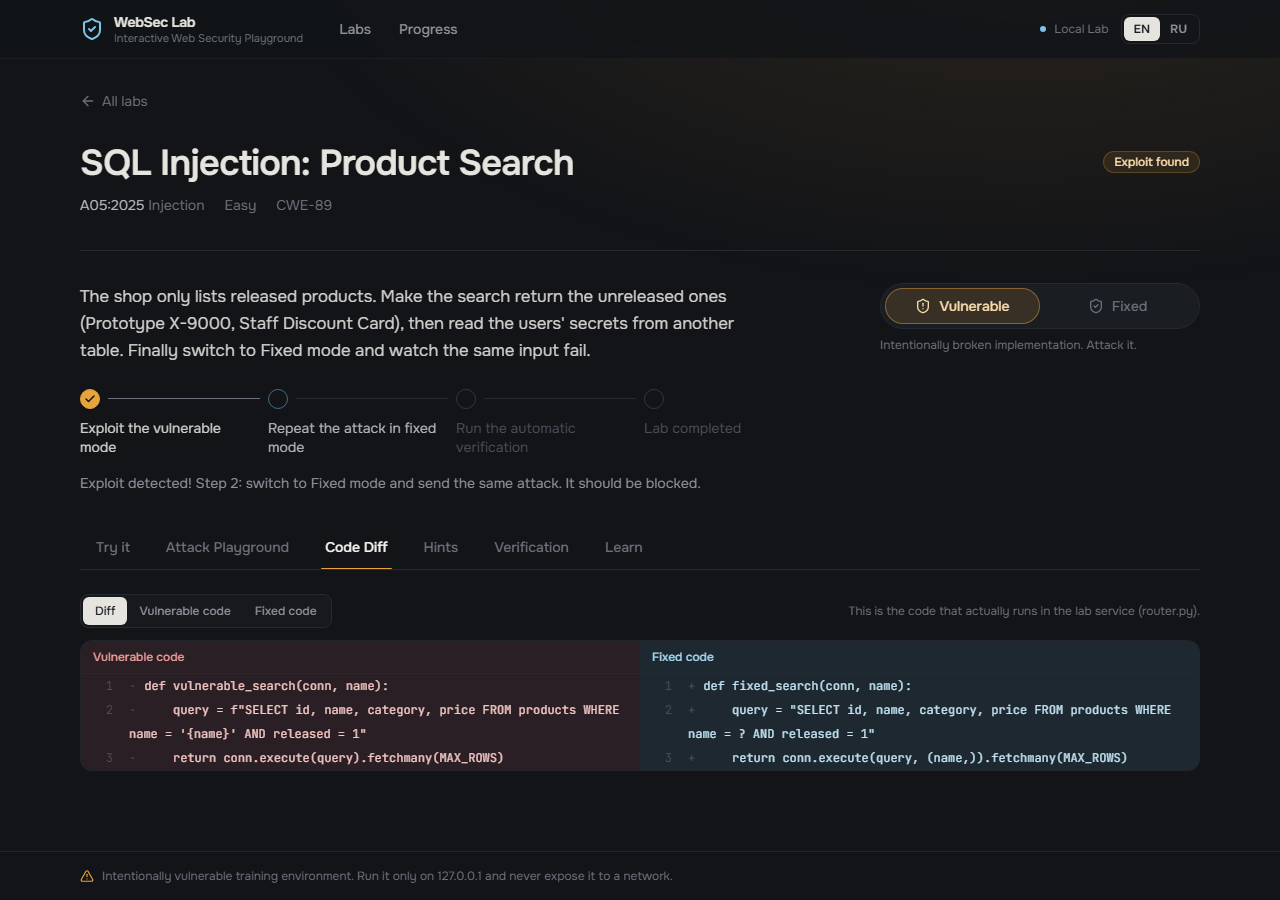
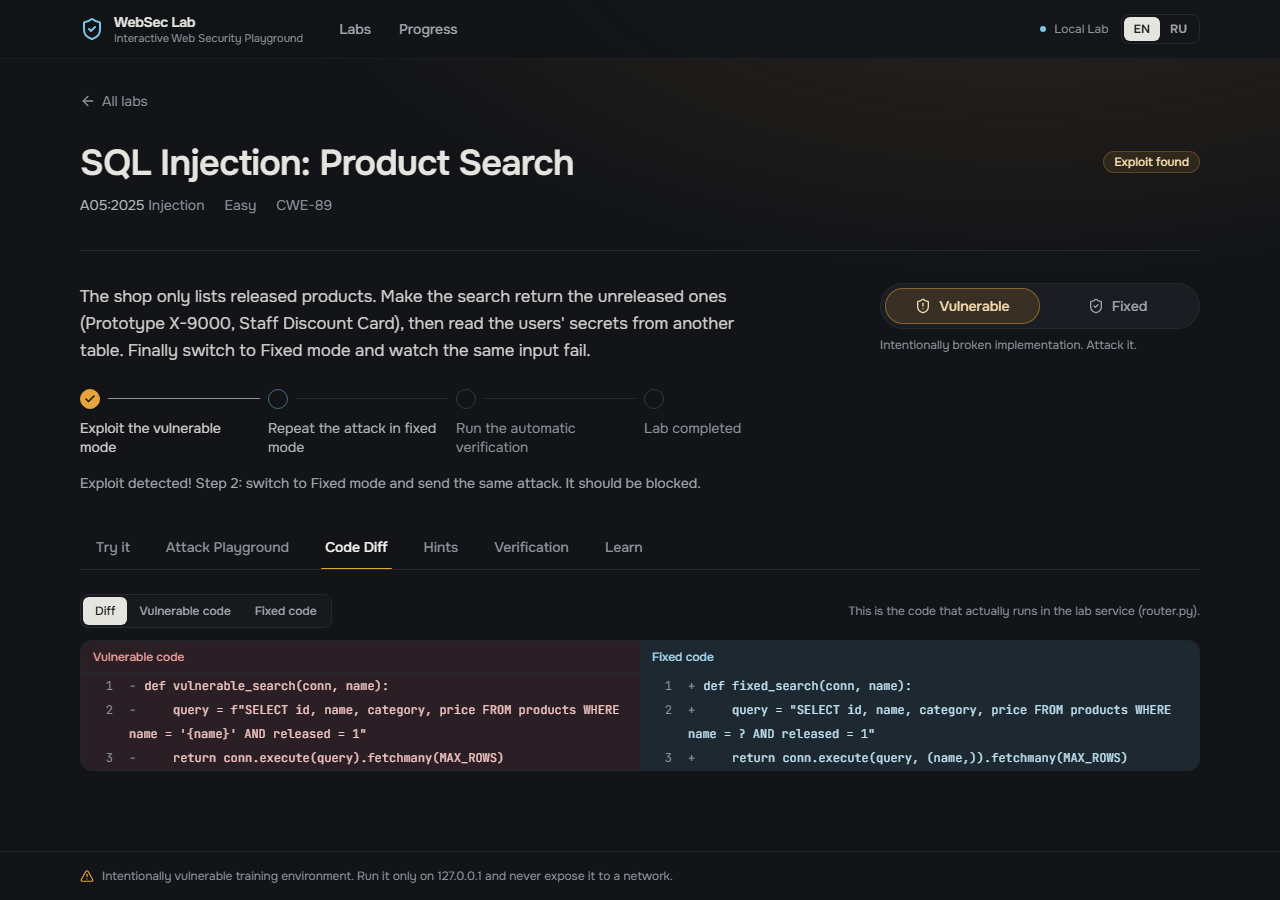
README: demo GIF, badges, current test and lint commands (v1.2.1)
A short GIF shows the core loop: exploit the vulnerable mode, switch modes, watch the same attack get refused. Screenshots are regenerated with the accessible palette, and CONTRIBUTING documents pin regeneration and the demo scripts.

diff --git a/tests/e2e/scripts/make_gif.py b/tests/e2e/scripts/make_gif.py
@@ -1,0 +1,25 @@
+"""Stitch the frames from demo-frames.mjs into docs/screenshots/demo.gif (needs Pillow)."""
+
+import json
+from pathlib import Path
+
+from PIL import Image
+
+HERE = Path(__file__).resolve().parent
+FRAMES = HERE.parent / "test-results" / "demo-frames"
+OUT = HERE.parent.parent.parent / "docs" / "screenshots" / "demo.gif"
+WIDTH = 880  # README column width; keeps the file small
+
+meta = json.loads((FRAMES / "frames.json").read_text())
+images, durations = [], []
+for frame in meta:
+    image = Image.open(frame["file"]).convert("RGB")
+    image = image.resize((WIDTH, round(image.height * WIDTH / image.width)), Image.LANCZOS)
+    images.append(image)
+    durations.append(max(40, min(frame["ms"], 160)) + frame.get("hold", 0))
+
+# One shared palette keeps colours stable between frames (no flicker in the dark background).
+palette = images[len(images) // 2].quantize(colors=128, method=Image.Quantize.MEDIANCUT)
+frames = [image.quantize(palette=palette, dither=Image.Dither.NONE) for image in images]
+frames[0].save(OUT, save_all=True, append_images=frames[1:], duration=durations, loop=0, optimize=True, disposal=1)
+print(f"{OUT} {len(frames)} frames, {sum(durations) / 1000:.1f}s, {OUT.stat().st_size / 1024:.0f} KiB")

diff --git a/backend/app/__init__.py b/backend/app/__init__.py
@@ -1,1 +1,1 @@
-__version__ = "1.2.0"
+__version__ = "1.2.1"

diff --git a/README.md b/README.md
@@ -1,5 +1,11 @@
 # WebSec Lab: Interactive Web Security Playground
 
+[![License: MIT](https://img.shields.io/badge/license-MIT-a2a6ae)](LICENSE)
+![OWASP Top 10:2025](https://img.shields.io/badge/OWASP%20Top%2010-2025-e8a33d)
+![Labs](https://img.shields.io/badge/labs-12-7cc4e8)
+![WCAG 2.1 AA](https://img.shields.io/badge/WCAG%202.1-AA-7cc4e8)
+![Docker Compose](https://img.shields.io/badge/run%20with-Docker%20Compose-a2a6ae)
+
 **English** · [Русский](README.ru.md)
 
 WebSec Lab is a local, open-source platform for learning web security by **breaking and fixing real code**.
@@ -10,6 +16,11 @@ automatic verification.
 
 > **Warning**: the `labs` service is vulnerable on purpose. Run it only on `127.0.0.1` and never expose it to a
 > network. See [SECURITY.md](SECURITY.md) and the [threat model](docs/threat-model.md).
+
+![Exploit the vulnerable mode, switch to the fixed mode, watch the same attack get refused](docs/screenshots/demo.gif)
+
+*Alice reads Bob's booking in the vulnerable mode; in the fixed mode the same request is refused and the lab
+records that you saw the fix hold.*
 
 ![Dashboard](docs/screenshots/dashboard.png)
 
@@ -91,11 +102,14 @@ cd frontend && npm install && npm run dev
 ## Tests
 
 ```bash
-pytest                                  # 191 tests: lab behaviour (tests/security) + control plane (backend/tests)
-cd frontend && npm run typecheck        # TypeScript
+ruff check && pytest                    # lint + 196 tests: lab behaviour (tests/security) and control plane (backend/tests)
+cd frontend && npm run lint && npm run typecheck
 cd tests/e2e && npm install && npx playwright install chromium
-npx playwright test                     # 43 browser tests against a running stack
+npx playwright test                     # 50 browser tests against a running stack, including a WCAG 2.1 AA audit
 ```
+
+Python dependencies are pinned: edit the ranges in `requirements*.in`, then regenerate the pinned `requirements*.txt`
+with `pip-compile` (pip-tools). Dependabot proposes weekly updates.
 
 `tests/security` proves, for every lab, that the vulnerable mode is exploitable, that the fixed mode blocks the same
 input, and that normal use still works. `tests/e2e` drives a real browser, including executing XSS inside the
@@ -131,7 +145,8 @@ Details: [docs/architecture.md](docs/architecture.md) · [docs/threat-model.md](
 | v1.0.1 | Fixed dead reference links; link checker |
 | v1.0.2 | Configurable dashboard port; Docker stack verified end to end |
 | v1.1.0 | A lab now requires watching the fix block your own attack; mobile layout fixes |
-| **v1.2.0** | **Minimal dark design with mode-driven colour and motion** |
+| v1.2.0 | Minimal dark design with mode-driven colour and motion |
+| **v1.2.1** | **WCAG 2.1 AA, linting, pinned dependencies, Dependabot** |
 
 ## License
 

diff --git a/CONTRIBUTING.md b/CONTRIBUTING.md
@@ -9,15 +9,15 @@ content.
 See "Local development" in the [README](README.md). Run the checks before opening a pull request:
 
 ```bash
-pytest
-cd frontend && npm run typecheck && npm run build
+ruff check && pytest
+cd frontend && npm run lint && npm run typecheck && npm run build
 cd tests/e2e && npx playwright test      # needs the stack running (docker compose up, or the three dev servers)
 ```
 
 ## Release checklist
 
 ```bash
-pytest && (cd frontend && npm run typecheck && npm run build)
+ruff check && pytest && (cd frontend && npm run lint && npm run typecheck && npm run build)
 python tests/check_links.py                    # every reference URL still resolves (needs internet)
 docker compose up --build --detach --wait
 python tests/smoke.py                          # every lab verifies against both modes
@@ -27,6 +27,20 @@ docker compose down --volumes
 
 Then update `CHANGELOG.md`, bump the versions (`backend/app/__init__.py`, `frontend/package.json`,
 `tests/e2e/package.json`), commit, and tag `vX.Y.Z` (the release workflow publishes the notes).
+
+## Dependencies
+
+Python: change the ranges in `labs/requirements.in` or `backend/requirements*.in`, then regenerate the pins on
+Python 3.12 (the version in the Docker images):
+
+```bash
+pip install pip-tools
+(cd labs && pip-compile --strip-extras -o requirements.txt requirements.in)
+(cd backend && pip-compile --strip-extras -o requirements.txt requirements.in && pip-compile --strip-extras -o requirements-dev.txt requirements-dev.in)
+```
+
+npm: use `npm install` as usual; the lockfiles are committed. The README demo is regenerated with
+`node tests/e2e/scripts/demo-frames.mjs && python tests/e2e/scripts/make_gif.py` (needs Pillow).
 
 ## Adding a lab
 

diff --git a/CHANGELOG.md b/CHANGELOG.md
@@ -2,6 +2,25 @@
 
 All notable changes are documented here. The project follows [Semantic Versioning](https://semver.org/).
 
+## [1.2.1]
+
+### Fixed
+- Accessibility (WCAG 2.1 AA): secondary and tertiary grey text was 2.3:1 and 3.8:1 against the dark background and
+  is now at least 4.5:1 everywhere; the logo link's accessible name matches its visible text; locked achievements are
+  muted with colour instead of opacity; long code blocks can be focused and scrolled from the keyboard.
+- The mode and persona switches were buttons pretending to be radio buttons without arrow-key support; they are now
+  native radio groups.
+- The Stored XSS "Clear comments" button also submitted the comment form (buttons now default to `type="button"`).
+
+### Added
+- Linting in CI: Ruff for Python, Biome for the frontend (typescript-eslint does not support TypeScript 7).
+- An axe-core audit in the end-to-end tests for every page, lab, tab and mode, plus a keyboard test for the mode switch.
+- Pinned Python dependencies (pip-tools) and Dependabot for pip, npm, Docker and GitHub Actions.
+- A demo GIF and badges in the README.
+
+### Changed
+- The default branch is `main`.
+
 ## [1.2.0]
 
 ### Changed
